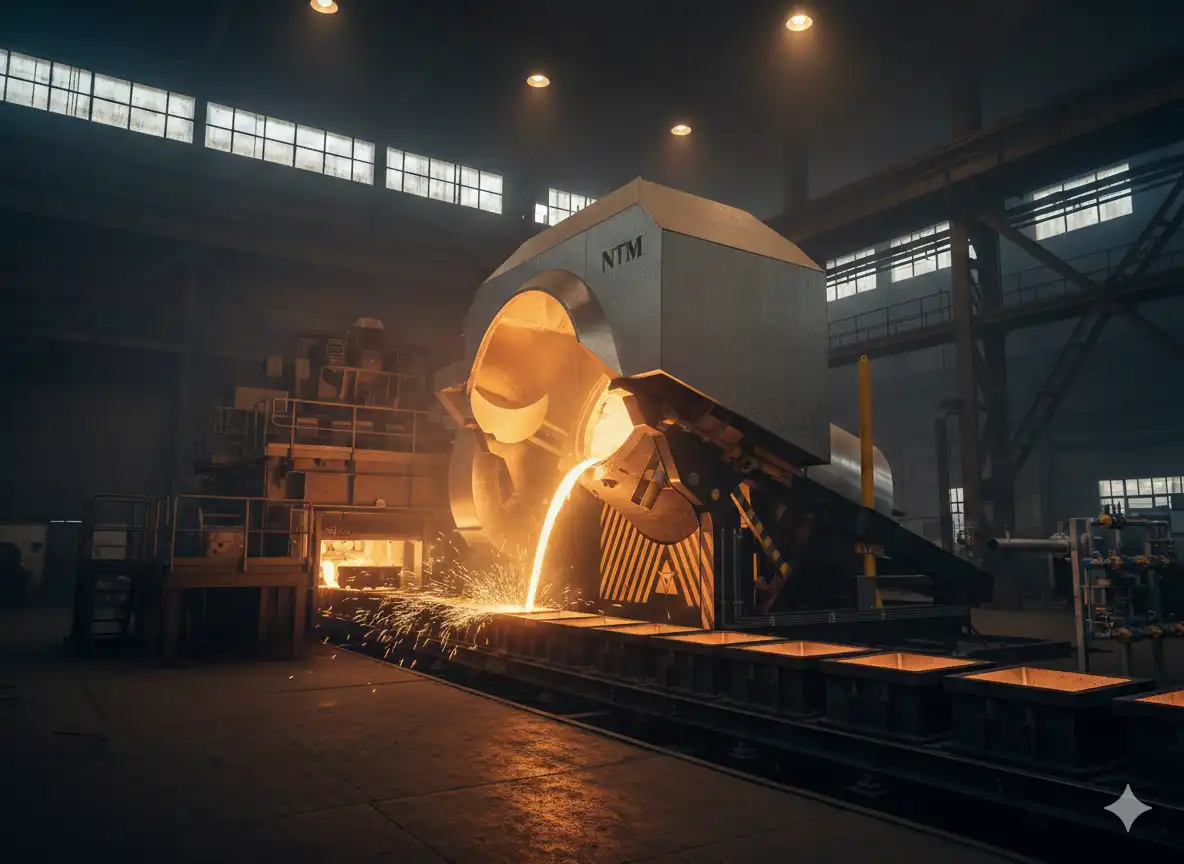
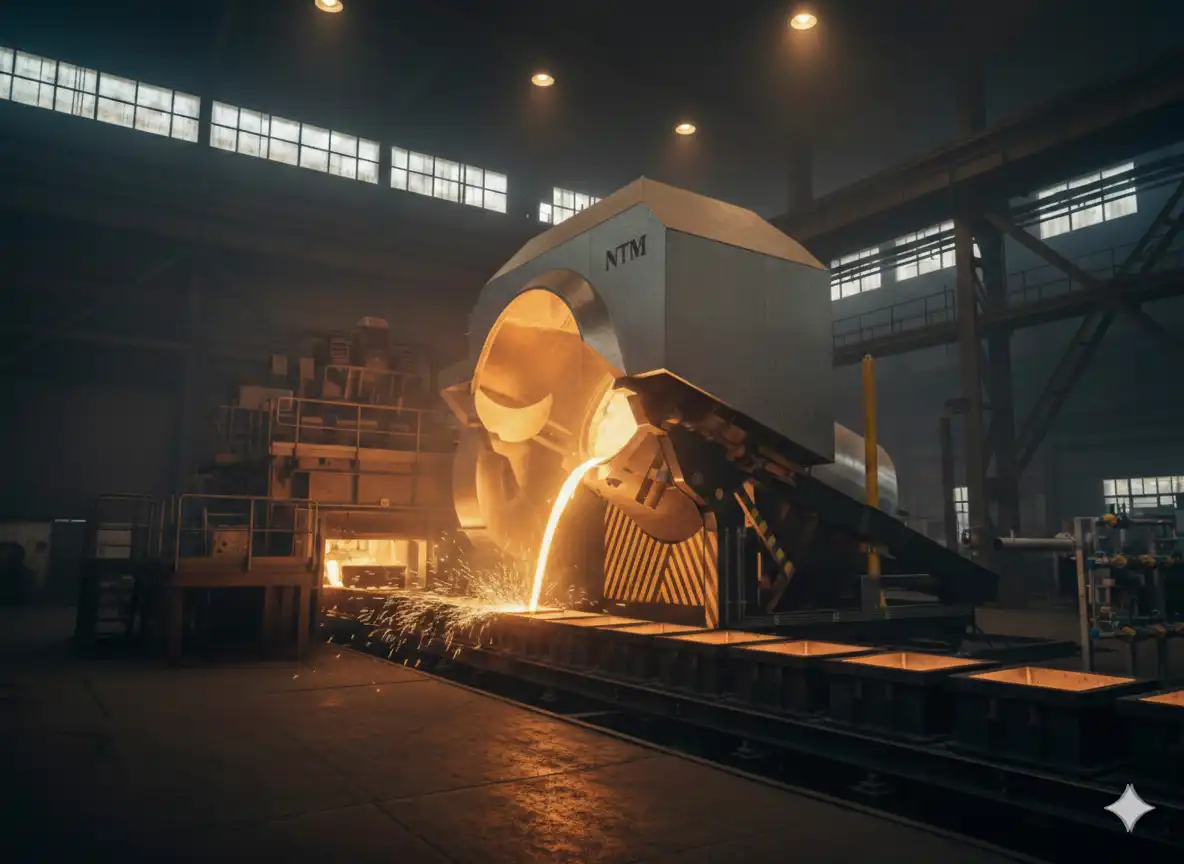
rev ui

diff --git a/src/components/about/Peoples.tsx b/src/components/about/Peoples.tsx
@@ -1,15 +1,16 @@
 import React from 'react';
 import { useTranslation } from 'next-i18next';
 
-import DogukanRazi from '@/public/assets/img/avatars/dogukan-razi.jpg';
 import ElifRazi from '@/public/assets/img/avatars/elif-razi.webp';
+import NurettinRazi from '@/public/assets/img/avatars/nurettin-razi.webp';
+import DogukanRazi from '@/public/assets/img/avatars/dogukan-razi.webp';
 
 const allPeoples = [
   {
     name: 'Nurettin RAZİ',
     title: 'about.peoples.roles.firm-manager',
     mail: 'nurettinrazi@nurimakteknik.com',
-    img: DogukanRazi.src,
+    img: NurettinRazi.src,
   },
   {
     name: 'Doğukan RAZİ',
